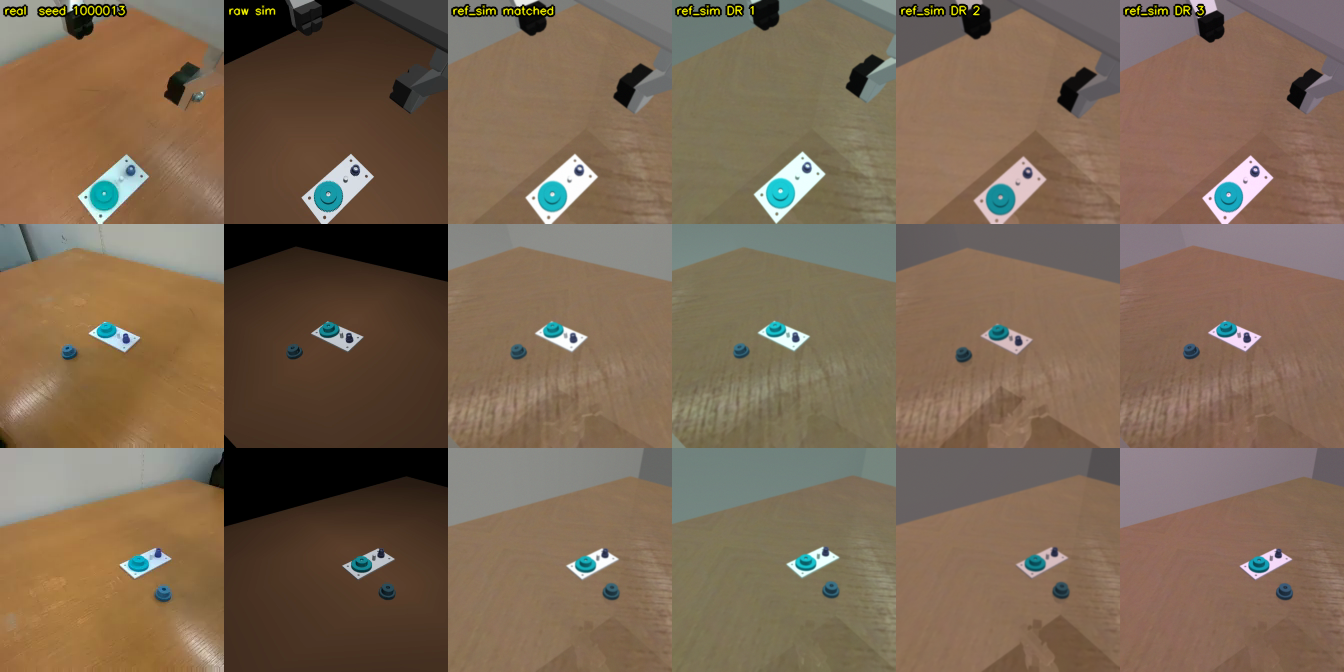
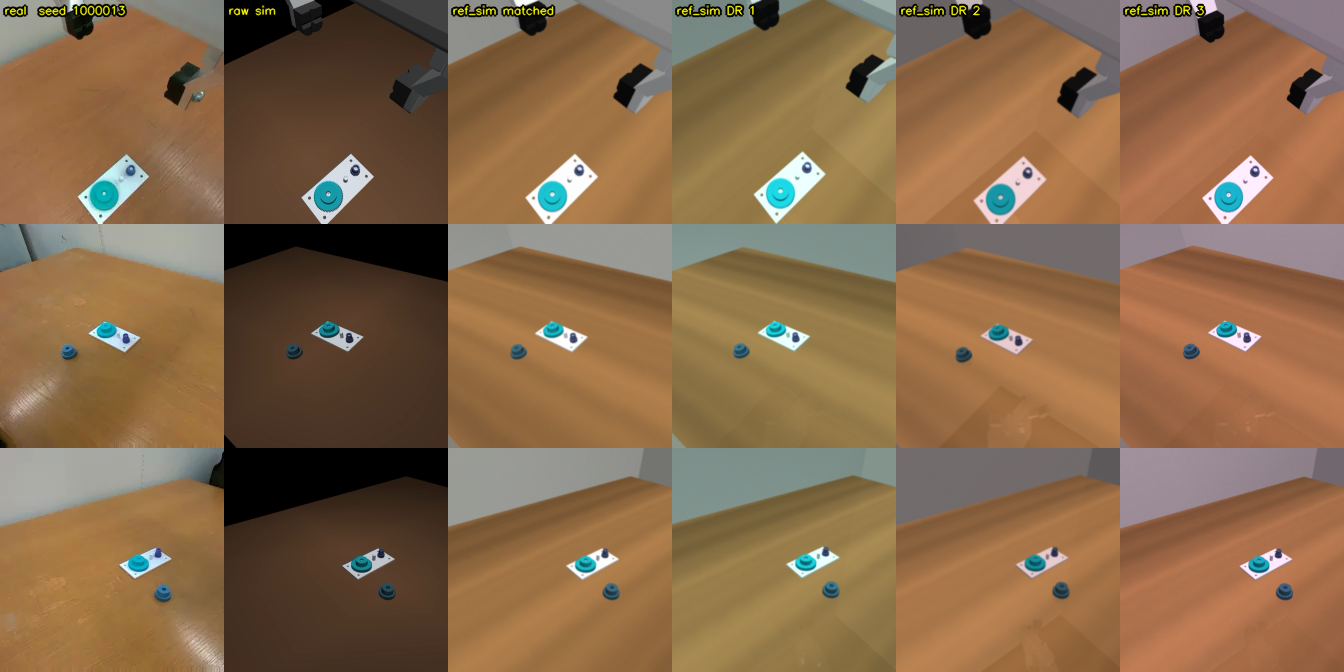
Wrap-up page: ref_sim final appearance match (layer v10, nine rounds)

diff --git a/blog/sim2real-wrapup/index.html b/blog/sim2real-wrapup/index.html
@@ -180,8 +180,8 @@
 <tr><td>Camera</td><td>Slightly soft focus, compression noise</td><td>Perfectly sharp</td><td>Mild blur and sensor noise</td></tr>
 </tbody></table></div>
 <p>The visuals are a render-only layer: physics and the control contract are unchanged, so the new policy can be evaluated in the old sim, in augsim and on the rig. Per episode, the collection randomizes lights, colours and textures, specularity, camera exposure and white balance, and the camera pose by about 0.5&deg; and 5 mm (the last real failures came from a 0.28&deg; camera rotation). Training adds LeRobot's image transforms (colour jitter, sharpness, small crop and blur).</p>
-<h3 id="ref-sim-round-3">Appearance match after three probe rounds</h3>
-<p>The render layer took three rounds. Round 1 cast a hard arm shadow the rig does not have, and the wood tile repeated the glare patch it was cut from. Round 2 removed the shadow but the texture crop overlapped the real plate, which then printed a phantom plate on every tile. Round 3 (below) cuts the grain from a clean region, keeps only its high-pass detail and applies the colour correction measured in round 2. The same 224-px table patch now reads 145/121/99 in ref_sim against 148/120/91 on the rig (raw sim: 75/53/36).</p>
+<h3 id="ref-sim-round-3">Appearance match after nine probe rounds</h3>
+<p>The render layer took nine probe rounds. The main fixes: a hard arm shadow the rig does not have (round 1); a texture crop that overlapped the real plate and printed a phantom plate on every tile (round 2); grain cut from the real frame that came out flat, then too contrasty, then blotchy after seamless blending (rounds 3–5); the table mirroring the arm as a dark smear (round 6); and whole-table colour calibration against the rig on all three cameras (rounds 4–9). The final grain is synthesized as long streaks along the table axis in the real table's colour. Whole-table median RGB, ref_sim vs rig: wrist2 139/112/67 vs 150/112/72, right static 159/114/68 vs 148/110/62, left static 160/115/68 vs 157/118/67 (raw sim, right static: 75/53/36). The three-camera mean gain is 1.00 / 1.00 / 0.99; the remaining split (statics about 5 % bright, wrist about 7 % dark) is a lighting-direction effect inside the randomization range.</p>
 <figure><img src="img/refsim_probe_1000013_t0.png" alt="Seed 1000013 at t = 0: real, raw sim, ref_sim matched, three ref_sim DR draws"><figcaption>Seed 1000013, t = 0. Columns: real | raw sim | ref_sim matched | three domain-randomization draws. Rows: wrist2, right static, left static.</figcaption></figure>
 <figure><img src="img/refsim_probe_1000013_t250.png" alt="Seed 1000013 at t = 8.3 s: real, raw sim, ref_sim matched"><figcaption>Same seed at 8.3 s (arm over the gear): real | raw sim | ref_sim matched.</figcaption></figure>
 <h2 id="12-where-sim-augsim-and-the-rig-part-ways">12. Where sim, augsim and the rig part ways: three probes</h2>
